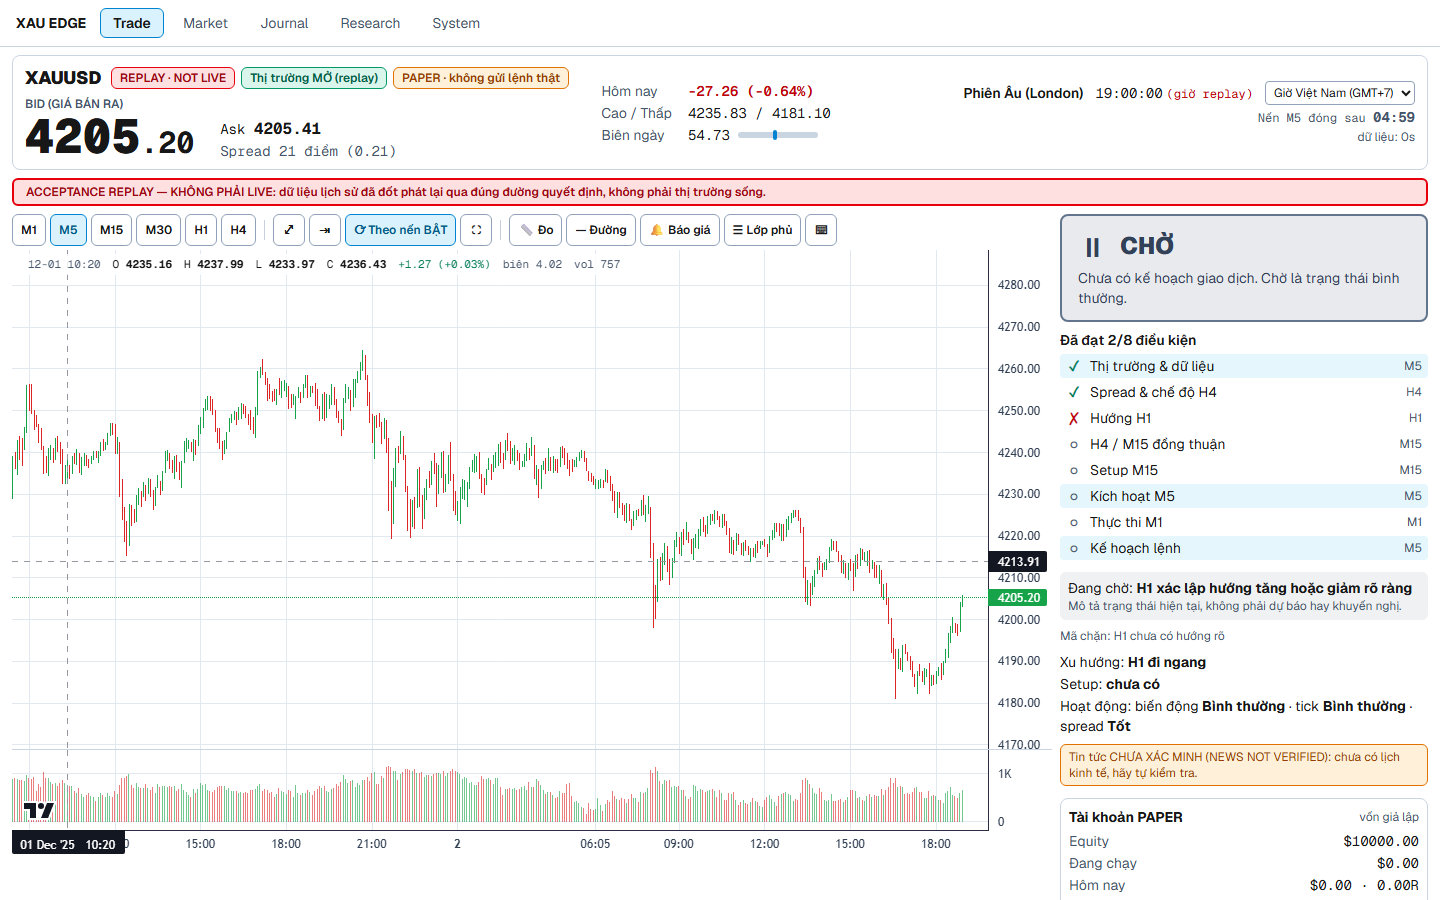
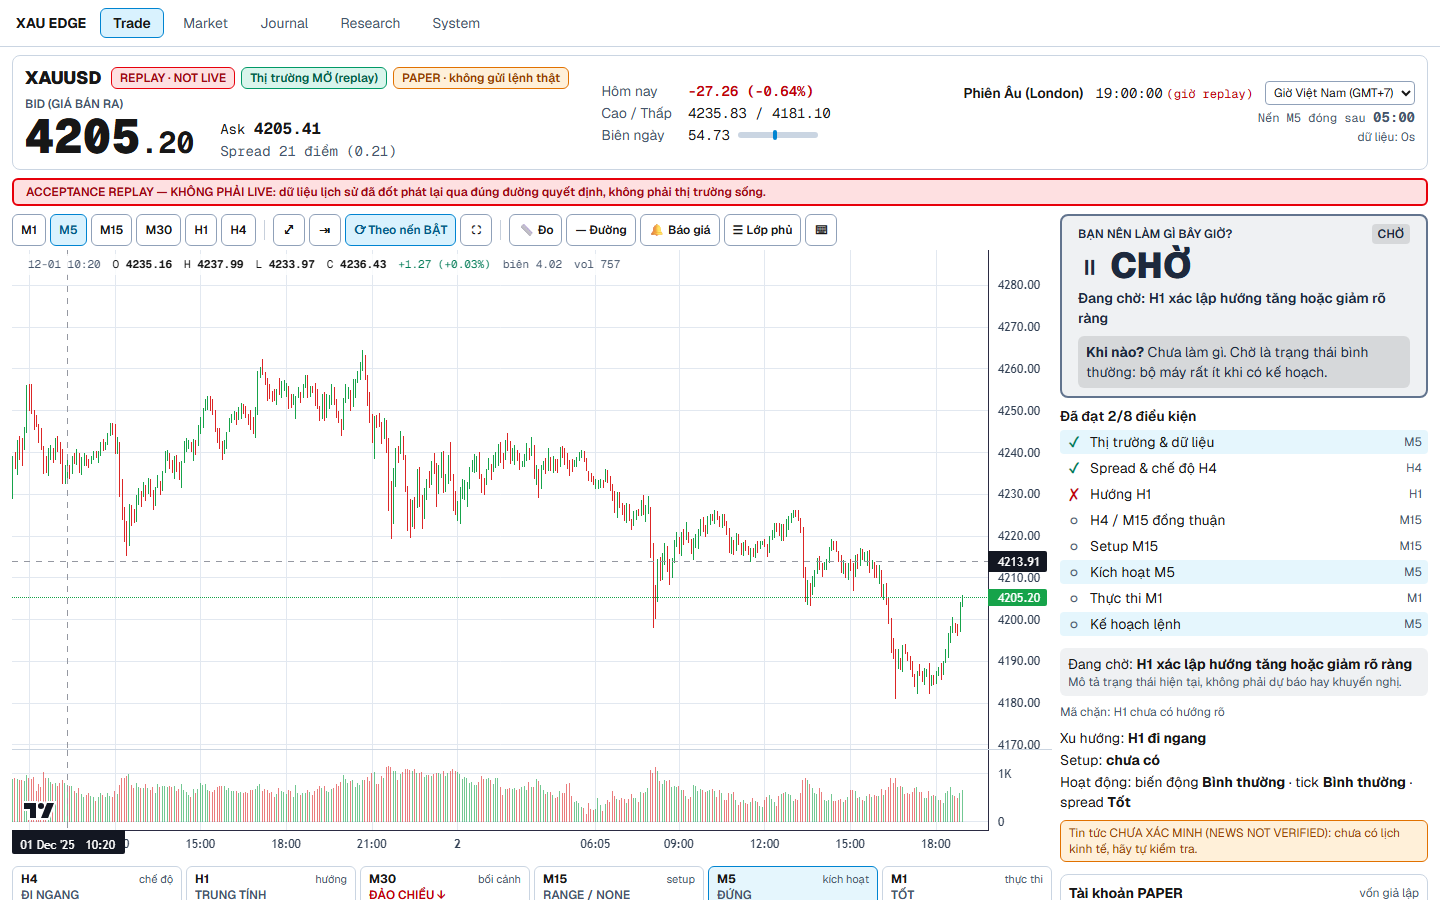
TRADE-07b: real-browser lifecycle acceptance (MCP) - setup id in confirmation, WATCH chip, message auto-dismiss, lifecycle acceptance specs
Browser-only bugs fixed: missing setup id in the open modal, stale success banner,
EXIT marker lag, WATCH chip contradicting the action. Acceptance suite extended with
WATCH/ARMED/INVALIDATED and BUY->HOLD->TIME-EXIT through the real API. Screenshots
mcp-02..mcp-15 from the real browser.

diff --git a/xau-edge/apps/dashboard/components/terminal/DecisionPanel.tsx b/xau-edge/apps/dashboard/components/terminal/DecisionPanel.tsx
@@ -3,7 +3,7 @@
 import { useEffect, useState } from "react";
 import { actionText, type ActionTone } from "@/lib/action";
 import { parseDecimal } from "@/lib/chartMath";
-import { BAD, GOOD, INFO, NEUTRAL, WARN, fmt, money } from "@/components/trade/ui";
+import { BAD, WARN, fmt, money } from "@/components/trade/ui";
 import { formatInZone, type DisplayZone } from "@/lib/time";
 import { fetchRisk, type PaperTrade, type RiskPlan, type TradeView } from "@/lib/trade";
 import { ACTIVITY_VI, BLOCKER_VI, EXIT_REASON_VI, HERO_VI, PAPER_ACCOUNT_VI, REFUSAL_VI, STAGE_VI, humanCondition, invalidationText, trendText, waitingText } from "@/lib/vi";
@@ -319,12 +319,14 @@ function ActionHero({ view, expiredNow, secondsLeft }: { view: TradeView; expire
   const errors = view.conditions.filter((c) => c.severity === "ERROR" && c.code !== "MARKET_CLOSED");
   const solid = t.tone === "buy" || t.tone === "sell";
   const veil = solid ? "bg-black/25" : "bg-black/10 dark:bg-white/10"; // solid heroes keep white text on a darker, never lighter, panel
+  // the small label never contradicts the action word: a WATCH is not 'CHỜ', a HOLD is a position
+  const chip = t.code.startsWith("WATCH") ? (view.hero.action.stage === "ARMED" ? "SETUP ĐANG HÌNH THÀNH" : "CHƯA CÓ SETUP") : text.label;
   const urgent = secondsLeft !== null && secondsLeft <= 60 && (t.code === "BUY" || t.code === "SELL") && !expiredNow;
   return (
     <div data-testid="hero" data-hero-state={state} data-action={t.code} data-server-label={view.hero.label} className={`rounded-lg border-2 px-4 py-2 ${ACTION_STYLE[t.tone]}`}>
       <div className="flex items-center justify-between gap-2 text-xs font-semibold uppercase">
         <span>Bạn nên làm gì bây giờ?</span>
-        <span data-testid="decision" className={`rounded px-1.5 py-0.5 ${veil}`}>{text.label}</span>
+        <span data-testid="decision" className={`rounded px-1.5 py-0.5 ${veil}`}>{chip}</span>
       </div>
       <div className="mt-1 flex items-center gap-2">
         <span aria-hidden="true" className="text-2xl">{ACTION_ICON[t.tone]}</span>

diff --git a/xau-edge/apps/dashboard/e2e-acceptance/desk.spec.ts b/xau-edge/apps/dashboard/e2e-acceptance/desk.spec.ts
@@ -330,3 +330,41 @@ test.describe("layouts", () => {
     await shot(page, "26-replay-dark-mobile");
   });
 });
+
+test.describe("action lifecycle through the real API: WAIT, WATCH, READY, HOLD, EXIT", () => {
+  const WATCHES: [string, string, string][] = [
+    ["buy_watch", "WATCH_BUY", "THEO DÕI MUA"],
+    ["buy_armed", "WATCH_BUY", "THEO DÕI MUA"],
+    ["sell_watch", "WATCH_SELL", "THEO DÕI BÁN"],
+    ["sell_armed", "WATCH_SELL", "THEO DÕI BÁN"],
+  ];
+  for (const [scenario, code, word] of WATCHES) {
+    test(`${scenario}: ${code} says when, offers no order`, async ({ page, request }) => {
+      await load(page, request, scenario);
+      await expect(hero(page)).toHaveAttribute("data-action", code);
+      await expect(page.getByTestId("action-word")).toHaveText(word);
+      await expect(page.getByTestId("action-when")).toContainText("Khi nào?");
+      await expect(page.getByTestId("take-paper")).toHaveCount(0);
+      await noHorizontalScroll(page);
+      await shot(page, `lifecycle-${scenario}`);
+    });
+  }
+
+  test("sell_invalidated: the dead setup is not an order, the engine waits", async ({ page, request }) => {
+    await load(page, request, "sell_invalidated");
+    await expect(hero(page)).toHaveAttribute("data-action", "WAIT");
+    await expect(page.getByTestId("take-paper")).toHaveCount(0);
+  });
+
+  test("BUY READY -> HOLD -> EXIT (TIME) with the action word following each step", async ({ page, request }) => {
+    await load(page, request, "buy_time");
+    await expect(hero(page)).toHaveAttribute("data-action", "BUY");
+    await openPaper(page);
+    await expect(hero(page)).toHaveAttribute("data-action", "HOLD");
+    await expect(page.getByTestId("action-word")).toHaveText("GIỮ LỆNH");
+    await advance(request, 110);
+    await advance(request, 15); // past max hold, still inside the 30-minute EXIT banner
+    await expect(hero(page)).toHaveAttribute("data-action", "EXIT", { timeout: 30_000 });
+    await expect(page.getByTestId("action-sub")).toContainText("Hết thời gian giữ");
+  });
+});

diff --git a/xau-edge/apps/dashboard/components/terminal/TerminalView.tsx b/xau-edge/apps/dashboard/components/terminal/TerminalView.tsx
@@ -228,6 +228,22 @@ export function TerminalView() {
     };
   }, [loadSide]);
 
+  // a trade opened or closed (possibly by the engine itself): refresh markers/journal at once instead of at the next 6 s poll
+  const exitedId = view?.desk?.last_exit?.trade_id ?? null;
+  const openId = view?.desk?.position?.trade_id ?? null;
+  useEffect(() => {
+    if (exitedId === null && openId === null) return;
+    const t = setTimeout(() => void loadSide(), 0);
+    return () => clearTimeout(t);
+  }, [exitedId, openId, loadSide]);
+
+  // a success message is a receipt, not a status: it goes away by itself (errors stay until dismissed)
+  useEffect(() => {
+    if (!message || message.tone === BAD) return;
+    const t = setTimeout(() => setMessage(null), 12_000);
+    return () => clearTimeout(t);
+  }, [message]);
+
   // ---- derived ---------------------------------------------------------------------------------
   const uiStale = lastOk === null || (now - lastOk) / 1000 > STALE_UI_SECONDS;
   const serverNow = now + skew;

diff --git a/xau-edge/apps/dashboard/components/terminal/ConfirmModals.tsx b/xau-edge/apps/dashboard/components/terminal/ConfirmModals.tsx
@@ -39,6 +39,7 @@ export function OpenConfirmModal({ frozen, liveEntry, maxDriftR, valid, busy, on
         </p>
       )}
       <dl className="grid grid-cols-2 gap-x-3 gap-y-1 text-sm">
+        <dt className="text-slate-600 dark:text-slate-400">Setup</dt><dd data-testid="confirm-setup" className="text-right font-mono">{frozen.setup_id.slice(0, 12)}</dd>
         <dt className="text-slate-600 dark:text-slate-400">Hướng</dt><dd className="text-right font-bold">{buy ? "MUA (BUY)" : "BÁN (SELL)"}</dd>
         <dt className="text-slate-600 dark:text-slate-400">Entry (giá thị trường hiện tại)</dt><dd data-testid="confirm-entry" className="text-right font-mono">{fmt(liveEntry ?? frozen.entry)}</dd>
         <dt className="text-slate-600 dark:text-slate-400">SL</dt><dd data-testid="confirm-sl" className="text-right font-mono">{fmt(frozen.sl)}</dd>
